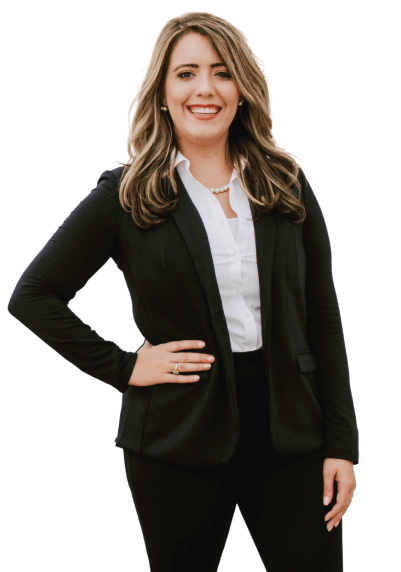
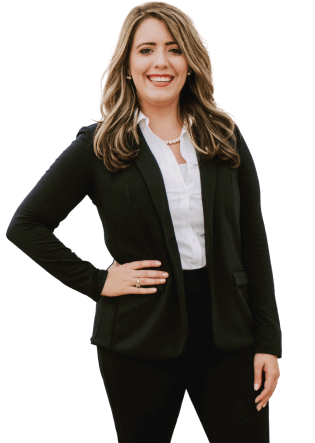
refactor(last call): colors and images changed

diff --git a/src/shared/last-call/last-call.tsx b/src/shared/last-call/last-call.tsx
@@ -1,7 +1,7 @@
-import { Box, Button } from '@common'
-import Image from 'next/image'
-import { becca } from './images'
-import * as S from './last-call.styles'
+import { Box, Button } from "@common"
+import Image from "next/image"
+import { becca } from "./images"
+import * as S from "./last-call.styles"
 import {
   CirclesSvg,
   HeartSvg,
@@ -10,38 +10,45 @@ import {
   MedalSvg,
   PinSvg,
   ShieldSvg,
-} from './svgs'
+} from "./svgs"
 
 export function LastCall() {
   return (
     <S.Section>
       <S.Container>
-        <Box css={{ display: 'flex', flexDirection: 'column', alignItems: 'flex-start' }}>
-          <S.Title>Get started with Becca Travis</S.Title>
+        <Box
+          css={{
+            display: "flex",
+            flexDirection: "column",
+            alignItems: "flex-start",
+          }}
+        >
+          <S.Title>
+            Get started with <S.BeccaTravis>Becca Travis</S.BeccaTravis>
+          </S.Title>
           <S.Paragraph>
             Is there a problem finding your dream home? Just contact us
           </S.Paragraph>
           <Box
             css={{
-              display: 'flex',
-              alignItems: 'center',
+              display: "flex",
+              alignItems: "center",
               gap: 24,
 
-              color: '$grayW10',
-              fontWeight: '400',
-              fontSize: '16px',
-              lineHeight: '24px',
+              color: "$magenta1",
+              fontWeight: "400",
+              fontSize: "16px",
+              lineHeight: "24px",
             }}
           >
             <Button
               href="#"
               css={{
-                backgroundColor: '$white',
-                color: '$magenta1',
-                padding: '10px 20px',
-                fontWeight: '500',
-                fontSize: '16px',
-                lineHeight: '36px',
+                color: "$white",
+                padding: "12px 20px",
+                fontWeight: "500",
+                fontSize: "14px",
+                lineHeight: "21px",
               }}
             >
               Schedule
@@ -50,12 +57,13 @@ export function LastCall() {
             <Button
               href="#"
               css={{
-                color: '$white',
-                padding: '10px 20px',
-                border: '1px solid $white',
-                fontWeight: '500',
-                fontSize: '16px',
-                lineHeight: '36px',
+                color: "$magenta1",
+                padding: "12px 20px",
+                border: "1px solid $magenta1",
+                backgroundColor: "transparent",
+                fontWeight: "500",
+                fontSize: "14px",
+                lineHeight: "21px",
               }}
             >
               Call
@@ -66,13 +74,16 @@ export function LastCall() {
         <div>
           <Box
             css={{
-              position: 'absolute',
-              top: '31px',
-              left: '428px',
+              position: "absolute",
+              top: "26px",
+              left: "471px",
 
-              padding: '10px',
-              background: '$tangerine1',
-              borderRadius: '16px',
+              padding: "10px",
+              background: "$tangerine1",
+              borderRadius: "16px",
+
+              filter:
+                "drop-shadow(0px 12px 15px rgba($colors$tangerine8Rgb, 0.2))",
 
               zIndex: 2,
             }}
@@ -81,13 +92,16 @@ export function LastCall() {
           </Box>
           <Box
             css={{
-              position: 'absolute',
-              bottom: '183px',
-              left: '387px',
+              position: "absolute",
+              bottom: "160px",
+              left: "384px",
 
-              padding: '10px',
-              background: '$tangerine9',
-              borderRadius: '12px',
+              padding: "10px",
+              background: "$tangerine1",
+              borderRadius: "12px",
+
+              filter:
+                "drop-shadow(0px 12px 15px rgba($colors$tangerine8Rgb, 0.2))",
 
               zIndex: 2,
             }}
@@ -96,13 +110,16 @@ export function LastCall() {
           </Box>
           <Box
             css={{
-              position: 'absolute',
-              bottom: '86px',
-              left: '498px',
+              position: "absolute",
+              bottom: "36px",
+              left: "474px",
 
-              padding: '10px',
-              background: '$tangerine9',
-              borderRadius: '14px',
+              padding: "10px",
+              background: "$tangerine2",
+              borderRadius: "14px",
+
+              filter:
+                "drop-shadow(0px 12px 15px rgba($colors$tangerine8Rgb, 0.2))",
 
               zIndex: 2,
             }}
@@ -111,13 +128,16 @@ export function LastCall() {
           </Box>
           <Box
             css={{
-              position: 'absolute',
-              top: '29px',
-              right: '28px',
+              position: "absolute",
+              top: "23px",
+              right: "69px",
 
-              padding: '10px',
-              background: '$tangerine9',
-              borderRadius: '14px',
+              padding: "10px",
+              background: "$tangerine2",
+              borderRadius: "14px",
+
+              filter:
+                "drop-shadow(0px 12px 15px rgba($colors$tangerine8Rgb, 0.2))",
 
               zIndex: 2,
             }}
@@ -126,13 +146,16 @@ export function LastCall() {
           </Box>
           <Box
             css={{
-              position: 'absolute',
-              top: '189px',
-              right: '63px',
+              position: "absolute",
+              top: "159px",
+              right: "32px",
 
-              padding: '10px',
-              background: '$tangerine1',
-              borderRadius: '16px',
+              padding: "10px",
+              background: "$tangerine1",
+              borderRadius: "16px",
+
+              filter:
+                "drop-shadow(0px 12px 15px rgba($colors$tangerine8Rgb, 0.2))",
 
               zIndex: 2,
             }}
@@ -141,13 +164,16 @@ export function LastCall() {
           </Box>
           <Box
             css={{
-              position: 'absolute',
-              bottom: '28px',
-              right: '36px',
+              position: "absolute",
+              bottom: "69px",
+              right: "134px",
 
-              padding: '10px',
-              background: '$tangerine9',
-              borderRadius: '12px',
+              padding: "10px",
+              background: "$tangerine2",
+              borderRadius: "12px",
+
+              filter:
+                "drop-shadow(0px 12px 15px rgba($colors$tangerine8Rgb, 0.2))",
 
               zIndex: 2,
             }}
@@ -157,16 +183,16 @@ export function LastCall() {
 
           <Box
             css={{
-              position: 'absolute',
-              bottom: '-4px',
-              right: '152px',
+              position: "absolute",
+              bottom: "-5px",
+              right: "195px",
 
               zIndex: 2,
             }}
           >
             <Image src={becca} alt="Becca Travis" quality="100" />
           </Box>
-          <Box css={{ position: 'absolute', bottom: 0, right: 5 }}>
+          <Box css={{ position: "absolute", bottom: 0, right: 0 }}>
             <CirclesSvg className={S.SvgStyles()} />
           </Box>
         </div>

diff --git a/src/shared/last-call/svgs/circles.tsx b/src/shared/last-call/svgs/circles.tsx
@@ -1,42 +1,34 @@
 export default function Svg({ ...props }) {
   return (
     <svg
-      width="736"
-      height="452"
+      width="663"
+      height="371"
       fill="none"
       xmlns="http://www.w3.org/2000/svg"
       {...props}
     >
-      <circle
+      <path
         opacity=".1"
-        cx="401.5"
-        cy="226.5"
-        r="152.515"
-        stroke="#E8B7CE"
+        d="M332.5 313.326c70.34 0 127.367-56.859 127.367-127.004 0-70.145-57.027-127.004-127.367-127.004-70.341 0-127.368 56.859-127.368 127.004 0 70.145 57.027 127.004 127.368 127.004Z"
+        stroke="#C57E59"
         strokeWidth="2"
       />
-      <circle
+      <path
         opacity=".1"
-        cx="401.081"
-        cy="226.081"
-        r="241.081"
-        stroke="#E8B7CE"
+        d="M332.155 385.676c110.604 0 200.272-89.405 200.272-199.699 0-110.293-89.668-199.699-200.272-199.699-110.604 0-200.272 89.406-200.272 199.699 0 110.294 89.668 199.699 200.272 199.699Z"
+        stroke="#C57E59"
         strokeWidth="2"
       />
-      <circle
+      <path
         opacity=".1"
-        cx="401.5"
-        cy="226.5"
-        r="327.679"
-        stroke="#E8B7CE"
+        d="M332.5 457.1c149.974 0 271.556-121.229 271.556-270.779S482.474-84.457 332.5-84.457 60.943 36.772 60.943 186.32c0 149.55 121.583 270.779 271.557 270.779Z"
+        stroke="#C57E59"
         strokeWidth="2"
       />
-      <circle
+      <path
         opacity=".1"
-        cx="401.5"
-        cy="226.5"
-        r="400.5"
-        stroke="#E8B7CE"
+        d="M332.5 516.871c183.08 0 331.5-147.989 331.5-330.549 0-182.56-148.42-330.55-331.5-330.55S1 3.762 1 186.322s148.42 330.549 331.5 330.549Z"
+        stroke="#C57E59"
         strokeWidth="2"
       />
     </svg>

diff --git a/src/shared/last-call/last-call.styles.ts b/src/shared/last-call/last-call.styles.ts
@@ -12,29 +12,39 @@ export const Container = styled('div', {
 
   position: 'relative',
 
-  padding: '86px 0 86px 63px',
-  background: '$magenta9',
+  padding: '64px 0 64px 64px',
+  
+  background: 'rgba($colors$tangerine10Rgb, 0.75)',
+  border: '1px solid rgba($colors$tangerine7Rgb, 0.15)',
+  boxShadow: '0px 14px 50px rgba($colors$blackRgb, 0.08)',
   borderRadius: '24px',
 })
 
 export const Title = styled('h3', {
   maxWidth: '262px',
-  marginBottom: '16px',
+  marginBottom: '20px',
 
-  fontWeight: '700',
+  fontWeight: '600',
   fontSize: '32px',
-  lineHeight: '46px',
-  color: '$offWhite2',
+  lineHeight: '44px',
+  color: '$gray1',
+})
+
+export const BeccaTravis = styled('h3', {
+  fontWeight: '600',
+  fontSize: '32px',
+  lineHeight: '44px',
+  color: '$magenta1'
 })
 
 export const Paragraph = styled('p', {
   maxWidth: '237px',
-  marginBottom: '56px',
+  marginBottom: '32px',
 
-  fontWeight: '400',
+  fontWeight: '300',
   fontSize: '16px',
-  lineHeight: '30px',
-  color: '$grayW9',
+  lineHeight: '29px',
+  color: '$details1',
 })
 
 export const SvgStyles = css({
